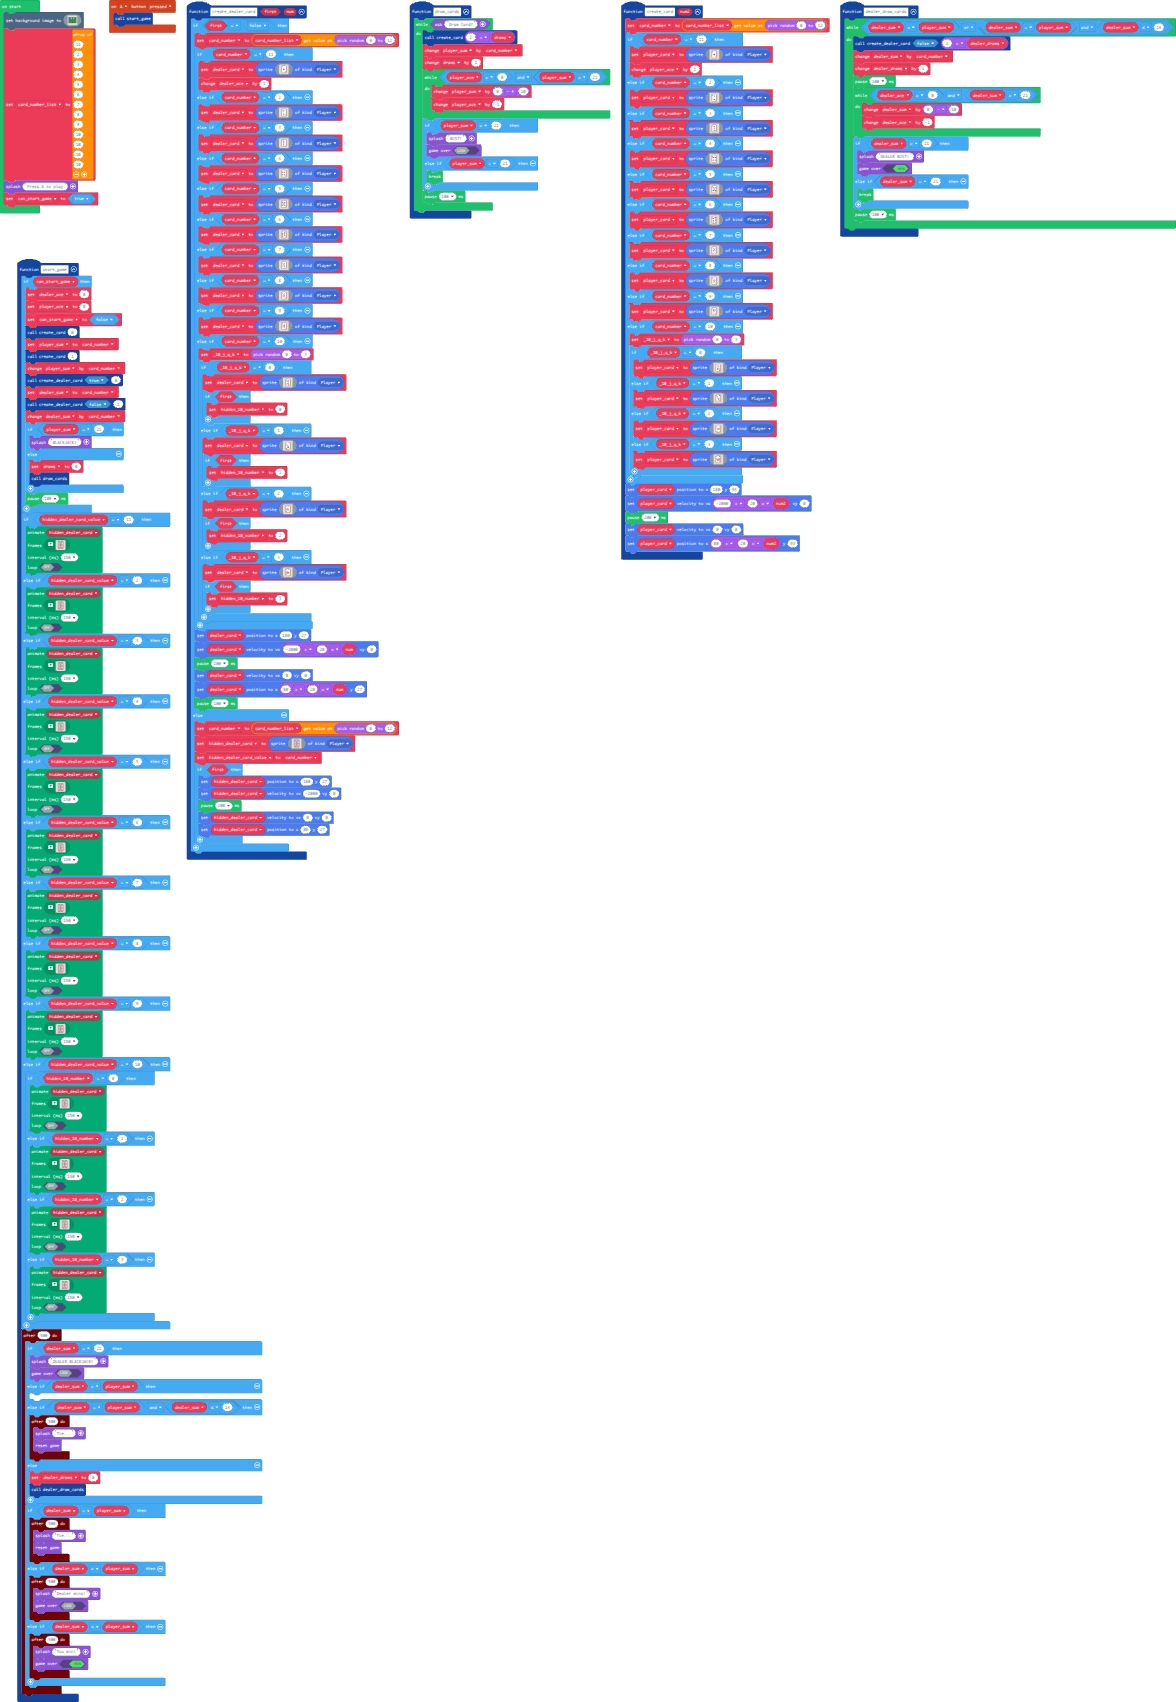
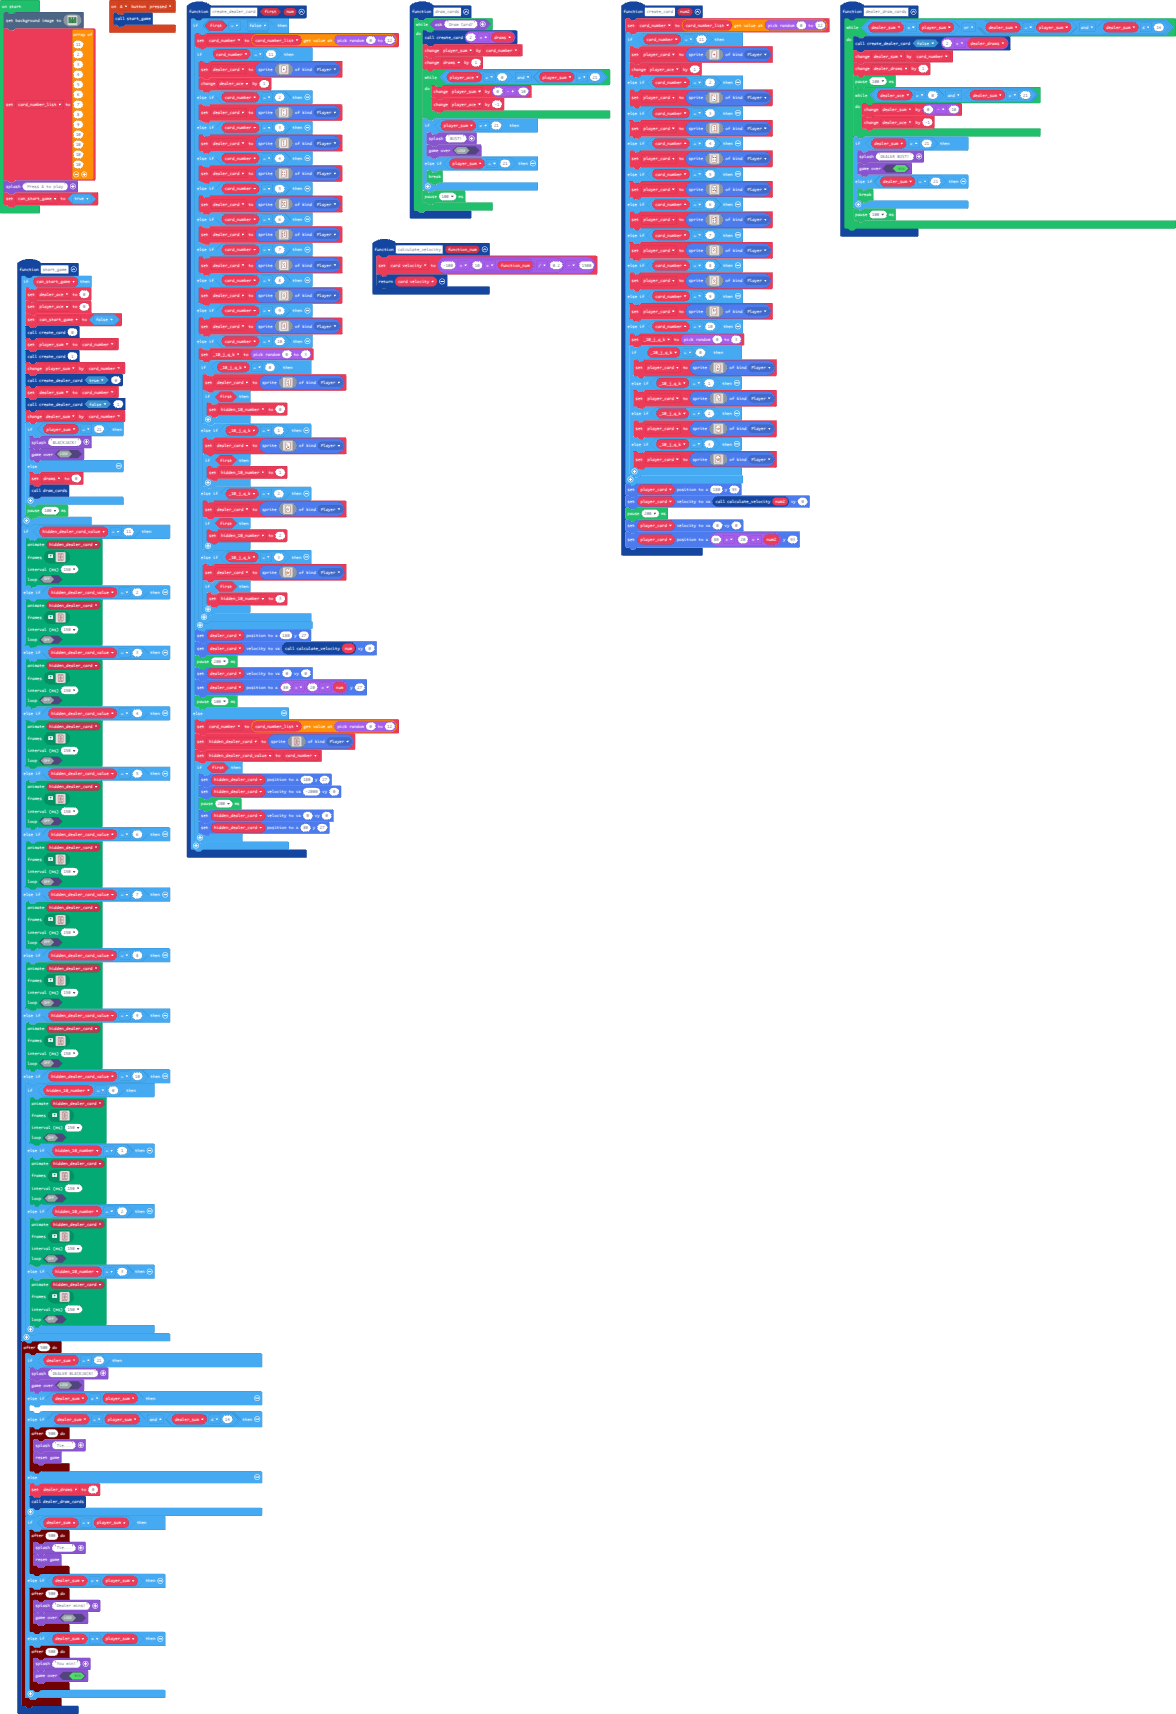
Update main.blocks, main.ts

Changed region(s): [[0.0, 0.0311, 0.7041, 0.9965], [0.7347, 0.0, 1.0, 0.1557], [0.0, 0.0311, 0.0918, 0.1246]]

diff --git a/main.ts b/main.ts
@@ -1,3 +1,7 @@
+function calculate_velocity (function_num: number) {
+    card_velocity = (-100 + 10 * function_num) / 0.2 - 1500
+    return card_velocity
+}
 function create_dealer_card (first: boolean, num: number) {
     if (first == false) {
         card_number = card_number_list[randint(0, 12)]
@@ -578,7 +582,7 @@ function create_dealer_card (first: boolean, num: number) {
             }
         }
         dealer_card.setPosition(180, 27)
-        dealer_card.setVelocity(-2000 + 20 * num, 0)
+        dealer_card.setVelocity(calculate_velocity(num), 0)
         pause(200)
         dealer_card.setVelocity(0, 0)
         dealer_card.setPosition(80 + 20 * num, 27)
@@ -1225,7 +1229,7 @@ function create_card (num2: number) {
         }
     }
     player_card.setPosition(180, 93)
-    player_card.setVelocity(-2000 + 20 * num2, 0)
+    player_card.setVelocity(calculate_velocity(num2), 0)
     pause(200)
     player_card.setVelocity(0, 0)
     player_card.setPosition(80 + 20 * num2, 93)
@@ -1264,6 +1268,7 @@ function start_game () {
         dealer_sum += card_number
         if (player_sum == 21) {
             game.splash("BLACKJACK!")
+            game.gameOver(false)
         } else {
             draws = 0
             draw_cards()
@@ -3542,6 +3547,7 @@ let _10_j_q_k = 0
 let dealer_ace = 0
 let dealer_card: Sprite = null
 let card_number = 0
+let card_velocity = 0
 let can_start_game = false
 let card_number_list: number[] = []
 scene.setBackgroundImage(img`
